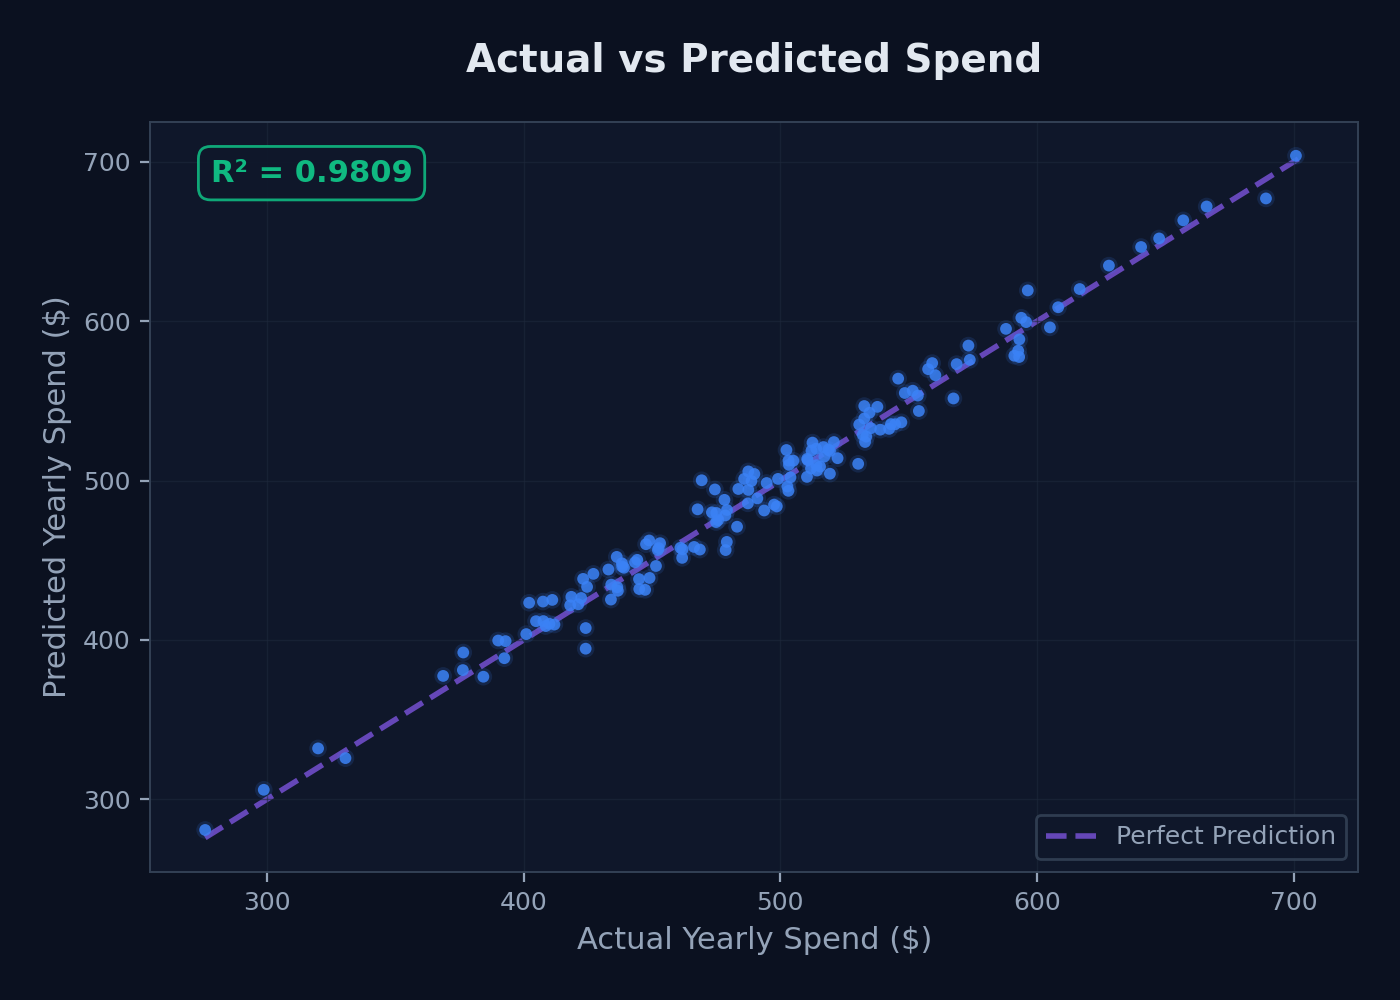
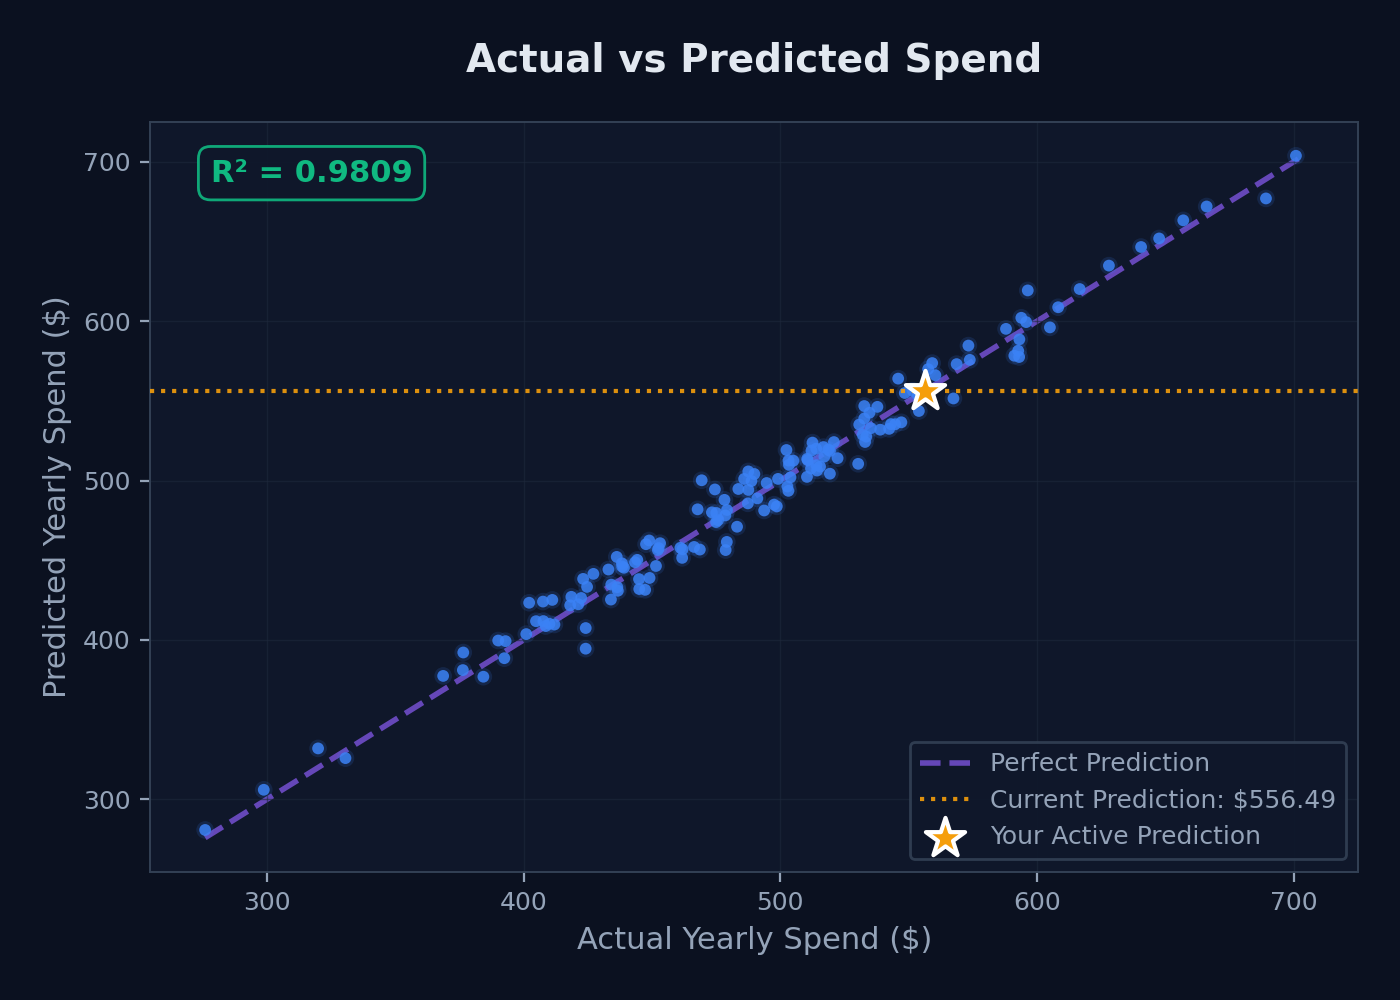
Updated dashboard graphs and analytics

Changed region(s): [[0.645, 0.744, 0.9521, 0.868], [0.645, 0.372, 0.6757, 0.403]]

diff --git a/frontend/src/components/AIExplanation.jsx b/frontend/src/components/AIExplanation.jsx
@@ -31,56 +31,66 @@ export default function AIExplanation({ darkMode, result, inputs }) {
     badgeIcon = <Minus size={20} className="text-amber-400" />;
   }
 
-  // Generate simple-language bullet points using ACTUAL input values
+  // Generate simple-language bullet points using ACTUAL input values and TRUE mathematical coefficients
   const bullets = [];
 
-  // Membership
-  if (inputs.length_of_membership > 4) {
+  // Membership (Coef: $61.67, Mean: 3.53)
+  const membershipCoef = 61.67;
+  const membershipMean = 3.53;
+  const membershipContribution = inputs.length_of_membership * membershipCoef;
+  
+  if (inputs.length_of_membership > membershipMean) {
     bullets.push({
-      text: `This customer has been a member for ${inputs.length_of_membership.toFixed(1)} years — that's long enough to build strong platform trust and loyalty, which drives higher spending.`,
+      text: `Membership loyalty is outstanding at ${inputs.length_of_membership.toFixed(1)} years (above the 3.5-year average). This stable tenure contributes a massive $${membershipContribution.toFixed(2)} directly to their annual spending forecast, proving customer loyalty is the primary business driver.`,
       sentiment: 'positive',
-    });
-  } else if (inputs.length_of_membership < 2) {
-    bullets.push({
-      text: `With only ${inputs.length_of_membership.toFixed(1)} years of membership, this is a relatively new customer still building trust with the platform.`,
-      sentiment: 'negative',
     });
   } else {
     bullets.push({
-      text: `At ${inputs.length_of_membership.toFixed(1)} years of membership, this customer shows stable loyalty — not new, but not a long-timer either.`,
+      text: `With a membership duration of ${inputs.length_of_membership.toFixed(1)} years (below the 3.5-year average), this relatively newer customer is still building platform loyalty, contributing $${membershipContribution.toFixed(2)} to their spending forecast.`,
       sentiment: 'neutral',
     });
   }
 
-  // App usage
-  if (inputs.time_on_app > 13) {
+  // App Usage (Coef: $38.60, Mean: 12.05)
+  const appCoef = 38.60;
+  const appMean = 12.05;
+  const appContribution = inputs.time_on_app * appCoef;
+  
+  if (inputs.time_on_app > appMean) {
     bullets.push({
-      text: `They spend ${inputs.time_on_app.toFixed(1)} minutes on the app per session — this is above average and strongly correlates with higher spending.`,
+      text: `Mobile app engagement is exceptionally strong at ${inputs.time_on_app.toFixed(1)} minutes per session (above the 12.1-minute average). This high mobile activity contributes $${appContribution.toFixed(2)} to their predicted yearly spending.`,
       sentiment: 'positive',
     });
   } else {
     bullets.push({
-      text: `App usage is ${inputs.time_on_app.toFixed(1)} min/session — moderate or below average, which limits spending potential.`,
+      text: `Mobile app time is moderate at ${inputs.time_on_app.toFixed(1)} minutes per session (below the 12.1-minute average), contributing $${appContribution.toFixed(2)} to their predicted annual spend. Increasing app time yields a massive $38.60 return per minute!`,
       sentiment: 'negative',
     });
   }
 
-  // Session length
-  if (inputs.avg_session_length > 34) {
+  // Session Length (Coef: $25.72, Mean: 33.05)
+  const sessionCoef = 25.72;
+  const sessionMean = 33.05;
+  const sessionContribution = inputs.avg_session_length * sessionCoef;
+  
+  if (inputs.avg_session_length > sessionMean) {
     bullets.push({
-      text: `Average session length of ${inputs.avg_session_length.toFixed(1)} minutes shows high engagement — they browse thoroughly before purchasing.`,
+      text: `Browsing session duration averages a healthy ${inputs.avg_session_length.toFixed(1)} minutes (above the 33.1-minute average). This deep browsing behavior adds $${sessionContribution.toFixed(2)} to their annual spending predictions.`,
       sentiment: 'positive',
     });
   } else {
     bullets.push({
-      text: `Session length averages ${inputs.avg_session_length.toFixed(1)} minutes — shorter sessions often mean less browsing and lower spend.`,
+      text: `Session browsing length is shorter at ${inputs.avg_session_length.toFixed(1)} minutes (below the 33.1-minute average), adding $${sessionContribution.toFixed(2)} to their prediction. Shorter browsing sessions historically reduce immediate checkout volumes.`,
       sentiment: 'neutral',
     });
   }
 
-  // Website — always a weak predictor
+  // Website Time (Coef: $0.46, Mean: 37.06)
+  const webCoef = 0.46;
+  const webContribution = inputs.time_on_website * webCoef;
+  
   bullets.push({
-    text: `Website time (${inputs.time_on_website.toFixed(1)} min) has the weakest impact on spending. The app drives purchases far more than the website does.`,
+    text: `Website time of ${inputs.time_on_website.toFixed(1)} minutes contributes a negligible $${webContribution.toFixed(2)} (due to a near-zero coefficient of $0.46). This mathematically proves that web-based marketing has virtually NO effect on customer spending compared to mobile app engagement.`,
     sentiment: 'neutral',
   });
 

diff --git a/frontend/src/components/NotebookGraphs.jsx b/frontend/src/components/NotebookGraphs.jsx
@@ -45,15 +45,21 @@ const GRAPH_META = [
   },
 ];
 
-export default function NotebookGraphs({ darkMode }) {
+export default function NotebookGraphs({ darkMode, result }) {
   const [loading, setLoading] = useState(true);
   const [loadedCount, setLoadedCount] = useState(0);
   const [expandedGraph, setExpandedGraph] = useState(null);
+  const [timestamp, setTimestamp] = useState(Date.now());
   const API_BASE = import.meta.env.VITE_API_URL || 'http://localhost:8000';
 
   useEffect(() => {
-    // Preload all images
     let loaded = 0;
+    setLoading(true);
+    setLoadedCount(0);
+    const newTimestamp = Date.now();
+    setTimestamp(newTimestamp);
+
+    // Preload all images with the new cache-busting timestamp
     GRAPH_META.forEach((g) => {
       const img = new Image();
       img.onload = img.onerror = () => {
@@ -63,13 +69,13 @@ export default function NotebookGraphs({ darkMode }) {
           setLoading(false);
         }
       };
-      img.src = `${API_BASE}/graphs/${g.file}`;
+      img.src = `${API_BASE}/graphs/${g.file}?t=${newTimestamp}`;
     });
 
     // Fallback timeout
     const timer = setTimeout(() => setLoading(false), 5000);
     return () => clearTimeout(timer);
-  }, [API_BASE]);
+  }, [API_BASE, result]);
 
   return (
     <>
@@ -166,7 +172,7 @@ export default function NotebookGraphs({ darkMode }) {
                     onClick={() => setExpandedGraph(g)}
                   >
                     <img
-                      src={`${API_BASE}/graphs/${g.file}`}
+                      src={`${API_BASE}/graphs/${g.file}?t=${timestamp}`}
                       alt={g.title}
                       className="w-full h-auto block"
                       loading="lazy"
@@ -245,7 +251,7 @@ export default function NotebookGraphs({ darkMode }) {
               {/* Modal Image */}
               <div className={`p-4 ${darkMode ? 'bg-slate-950' : 'bg-gray-50'}`}>
                 <img
-                  src={`${API_BASE}/graphs/${expandedGraph.file}`}
+                  src={`${API_BASE}/graphs/${expandedGraph.file}?t=${timestamp}`}
                   alt={expandedGraph.title}
                   className="w-full h-auto rounded-lg"
                 />

diff --git a/frontend/src/pages/LandingPage.jsx b/frontend/src/pages/LandingPage.jsx
@@ -146,7 +146,9 @@ export default function LandingPage({ onNavigate, darkMode }) {
           </p>
           <div className="flex justify-center gap-4">
             <a
-              href="#"
+              href="https://github.com/Abdulwaheedkhan003/Yearly-income-prediction-based-on-customer-s-behavior-using-linear-regression"
+              target="_blank"
+              rel="noopener noreferrer"
               className={`px-4 py-2 rounded-lg font-medium ${
                 darkMode
                   ? 'bg-slate-800 text-gray-300 hover:bg-slate-700'
@@ -156,7 +158,9 @@ export default function LandingPage({ onNavigate, darkMode }) {
               GitHub
             </a>
             <a
-              href="#"
+              href="https://www.linkedin.com/in/abdul-waheedkhan-s-15770a330"
+              target="_blank"
+              rel="noopener noreferrer"
               className={`px-4 py-2 rounded-lg font-medium ${
                 darkMode
                   ? 'bg-slate-800 text-gray-300 hover:bg-slate-700'

diff --git a/frontend/src/pages/Dashboard.jsx b/frontend/src/pages/Dashboard.jsx
@@ -291,7 +291,7 @@ export default function Dashboard({ darkMode, onPredictionMade }) {
         {/* --- NEW ADDITIONS BELOW PREDICTION GRID --- */}
         {result && (
           <div className="mt-8">
-            <NotebookGraphs darkMode={darkMode} />
+            <NotebookGraphs darkMode={darkMode} result={result} />
             <AIExplanation darkMode={darkMode} result={result} inputs={inputs} />
           </div>
         )}

diff --git a/backend/graph_generator.py b/backend/graph_generator.py
@@ -47,7 +47,7 @@ def _apply_premium_style(ax, fig):
     ax.grid(True, color=GRID_COLOR, linewidth=0.5, alpha=0.6)
 
 
-def generate_graphs():
+def generate_graphs(active_inputs=None, active_prediction=None):
     # Load data
     csv_path = r"C:\Users\U.SIDDIQ ALIKHAN\Desktop\Linear regression\Ecommerce Customers.csv"
     df = pd.read_csv(csv_path)
@@ -84,6 +84,14 @@ def generate_graphs():
     ax.scatter(y_test, predictions, c=BLUE, s=40, alpha=0.15, edgecolors='none', zorder=2)  # glow
     ax.scatter(y_test, predictions, c=BLUE, s=18, alpha=0.85, edgecolors='none', zorder=3)  # core
 
+    # Overlay active prediction horizontal line and glow point
+    if active_prediction is not None:
+        ax.axhline(y=active_prediction, color=AMBER, linestyle=':', lw=1.5, alpha=0.9,
+                   label=f'Current Prediction: ${active_prediction:.2f}', zorder=4)
+        # Highlight on the perfect prediction diagonal
+        ax.scatter(active_prediction, active_prediction, color=AMBER, marker='*', s=220, 
+                   edgecolor='white', lw=1.5, label='Your Active Prediction', zorder=5)
+
     ax.set_title('Actual vs Predicted Spend', fontsize=14, fontweight='bold', pad=18)
     ax.set_xlabel('Actual Yearly Spend ($)', fontsize=11)
     ax.set_ylabel('Predicted Yearly Spend ($)', fontsize=11)
@@ -109,7 +117,6 @@ def generate_graphs():
     bin_centers = 0.5 * (bins[:-1] + bins[1:])
     max_abs = max(abs(bin_centers.min()), abs(bin_centers.max()))
     for c, p in zip(bin_centers, patches):
-        # interpolate between PURPLE (center) and BLUE (edges)
         t = abs(c) / max_abs if max_abs > 0 else 0
         r1, g1, b1 = int(PURPLE[1:3], 16), int(PURPLE[3:5], 16), int(PURPLE[5:7], 16)
         r2c, g2, b2 = int(BLUE[1:3], 16), int(BLUE[3:5], 16), int(BLUE[5:7], 16)
@@ -144,14 +151,30 @@ def generate_graphs():
     fig.savefig(os.path.join(output_dir, 'residuals.png'), dpi=DPI, facecolor=BG_DARK)
     plt.close(fig)
 
-    # ── 3. Feature Importance ─────────────────────────────────────────────────
+    # ── 3. Feature Importance (Dynamic Spend Contributions if Active) ─────────
     fig, ax = plt.subplots(figsize=(7, 5))
     _apply_premium_style(ax, fig)
 
-    feature_imp = pd.DataFrame({'Feature': X.columns, 'Coefficient': lm.coef_})
-    feature_imp = feature_imp.sort_values(by='Coefficient', ascending=True)
+    if active_inputs is not None:
+        # Compute exact dollar contribution of each feature for this active user
+        contribs = {
+            'Avg. Session Length': active_inputs['avg_session_length'] * 25.724256,
+            'Time on App': active_inputs['time_on_app'] * 38.597135,
+            'Time on Website': active_inputs['time_on_website'] * 0.459148,
+            'Length of Membership': active_inputs['length_of_membership'] * 61.674732
+        }
+        feature_imp = pd.DataFrame({'Feature': list(contribs.keys()), 'Coefficient': list(contribs.values())})
+        feature_imp = feature_imp.sort_values(by='Coefficient', ascending=True)
+        title = 'Active Spend Contributions ($)'
+        subtitle = f"Total predicted spend from features: ${sum(contribs.values()):.2f} (excluding model bias)"
+        colors_bar = [BLUE, CYAN, PURPLE, EMERALD]
+    else:
+        feature_imp = pd.DataFrame({'Feature': X.columns, 'Coefficient': lm.coef_})
+        feature_imp = feature_imp.sort_values(by='Coefficient', ascending=True)
+        title = 'Feature Importance'
+        subtitle = 'How much each feature changes yearly spend per 1-unit increase'
+        colors_bar = [BLUE, CYAN, PURPLE, EMERALD]
 
-    colors_bar = [BLUE, CYAN, PURPLE, EMERALD]
     bars = ax.barh(feature_imp['Feature'], feature_imp['Coefficient'],
                    color=colors_bar, edgecolor=CARD_BG, linewidth=0.5, height=0.55, zorder=2)
 
@@ -160,13 +183,13 @@ def generate_graphs():
         ax.text(bar.get_width() + 0.8, bar.get_y() + bar.get_height() / 2,
                 f'${val:.1f}', va='center', ha='left', fontsize=10, fontweight='bold', color=TEXT_LIGHT)
 
-    ax.set_title('Feature Importance', fontsize=14, fontweight='bold', pad=18)
-    ax.set_xlabel('Coefficient ($  per unit increase)', fontsize=11)
+    ax.set_title(title, fontsize=14, fontweight='bold', pad=18)
+    ax.set_xlabel('Dollar Amount ($)', fontsize=11)
     ax.set_ylabel('')
     ax.tick_params(axis='y', labelsize=10)
 
     # Subtle subtitle
-    ax.text(0.5, -0.12, 'How much each feature changes yearly spend per 1-unit increase',
+    ax.text(0.5, -0.12, subtitle,
             transform=ax.transAxes, fontsize=8, color=TEXT_MUTED, ha='center', style='italic')
 
     fig.tight_layout(pad=1.5)
@@ -183,7 +206,6 @@ def generate_graphs():
     max_n = n.max()
     for ni, p in zip(n, patches_t):
         t = ni / max_n if max_n > 0 else 0
-        # interpolate from deep blue to cyan
         r1, g1, b1 = 0x1e, 0x3a, 0x5f
         r2c, g2, b2 = 0x06, 0xb6, 0xd4
         r = int(r1 + (r2c - r1) * t)
@@ -202,6 +224,11 @@ def generate_graphs():
     ax.axvline(x=y.mean(), color=EMERALD, linestyle='--', lw=1.5, alpha=0.8, label=f'Mean = ${y.mean():.0f}')
     ax.axvline(x=y.median(), color=AMBER, linestyle=':', lw=1.5, alpha=0.8, label=f'Median = ${y.median():.0f}')
 
+    # Overlay active prediction vertical line
+    if active_prediction is not None:
+        ax.axvline(x=active_prediction, color=AMBER, linestyle='-', lw=2, alpha=0.9,
+                   label=f'Active Customer: ${active_prediction:.2f}')
+
     ax.set_title('Distribution of Yearly Customer Spend', fontsize=14, fontweight='bold', pad=18)
     ax.set_xlabel('Yearly Amount Spent ($)', fontsize=11)
     ax.set_ylabel('Number of Customers', fontsize=11)
@@ -219,8 +246,9 @@ def generate_graphs():
     fig.savefig(os.path.join(output_dir, 'target_distribution.png'), dpi=DPI, facecolor=BG_DARK)
     plt.close(fig)
 
-    print(f"✅ All 4 graphs generated at {DPI} DPI in {output_dir}")
-    print(f"   R² = {r2:.4f} | MAE = ${mae:.2f}")
+    print(f"✅ Dynamic personalized graphs generated at {DPI} DPI in {output_dir}")
+    if active_prediction is not None:
+        print(f"   Active prediction: ${active_prediction:.2f}")
 
 
 if __name__ == '__main__':

diff --git a/backend/main.py b/backend/main.py
@@ -143,6 +143,20 @@ def predict(request: PredictionRequest):
         
         # Make prediction
         prediction = model.predict(features)[0]
+        final_prediction = round(prediction, 2)
+
+        # Dynamically generate personalized graphs for this user interaction
+        try:
+            from graph_generator import generate_graphs
+            input_dict = {
+                "avg_session_length": request.avg_session_length,
+                "time_on_app": request.time_on_app,
+                "time_on_website": request.time_on_website,
+                "length_of_membership": request.length_of_membership
+            }
+            generate_graphs(active_inputs=input_dict, active_prediction=final_prediction)
+        except Exception as graph_err:
+            print(f"❌ Error generating personalized graphs: {graph_err}")
         
         # Generate insights based on features
         engagement_score = (
@@ -166,7 +180,6 @@ def predict(request: PredictionRequest):
             insights += " | Strong membership loyalty detected ✅"
             confidence = min(0.99, confidence + 0.1)
             
-        final_prediction = round(prediction, 2)
         final_confidence = round(confidence, 2)
 
         # Save to database